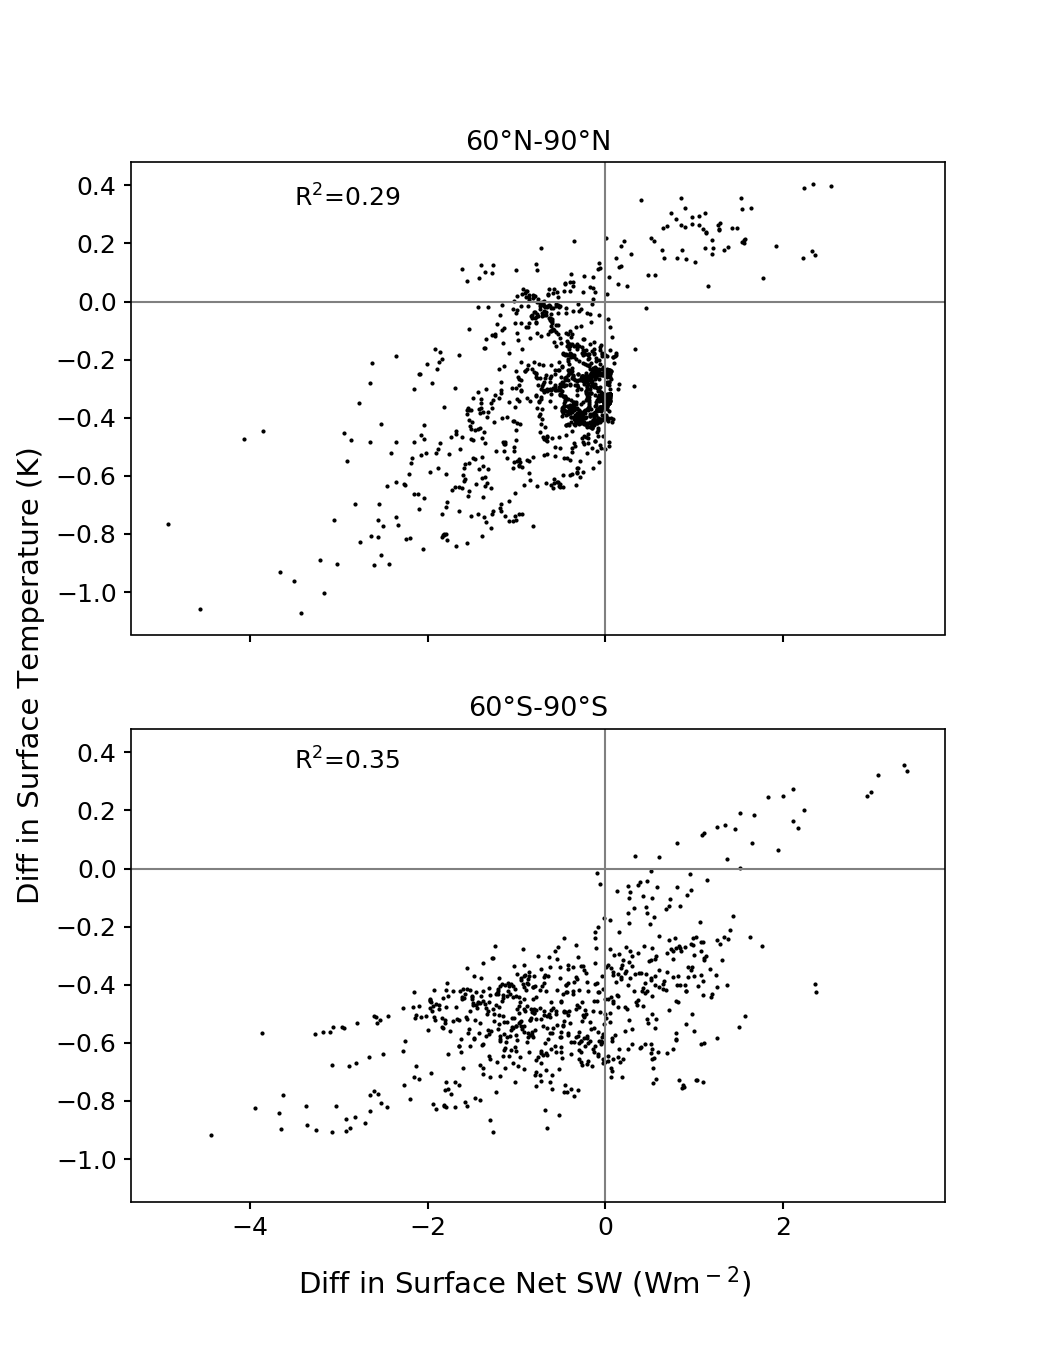
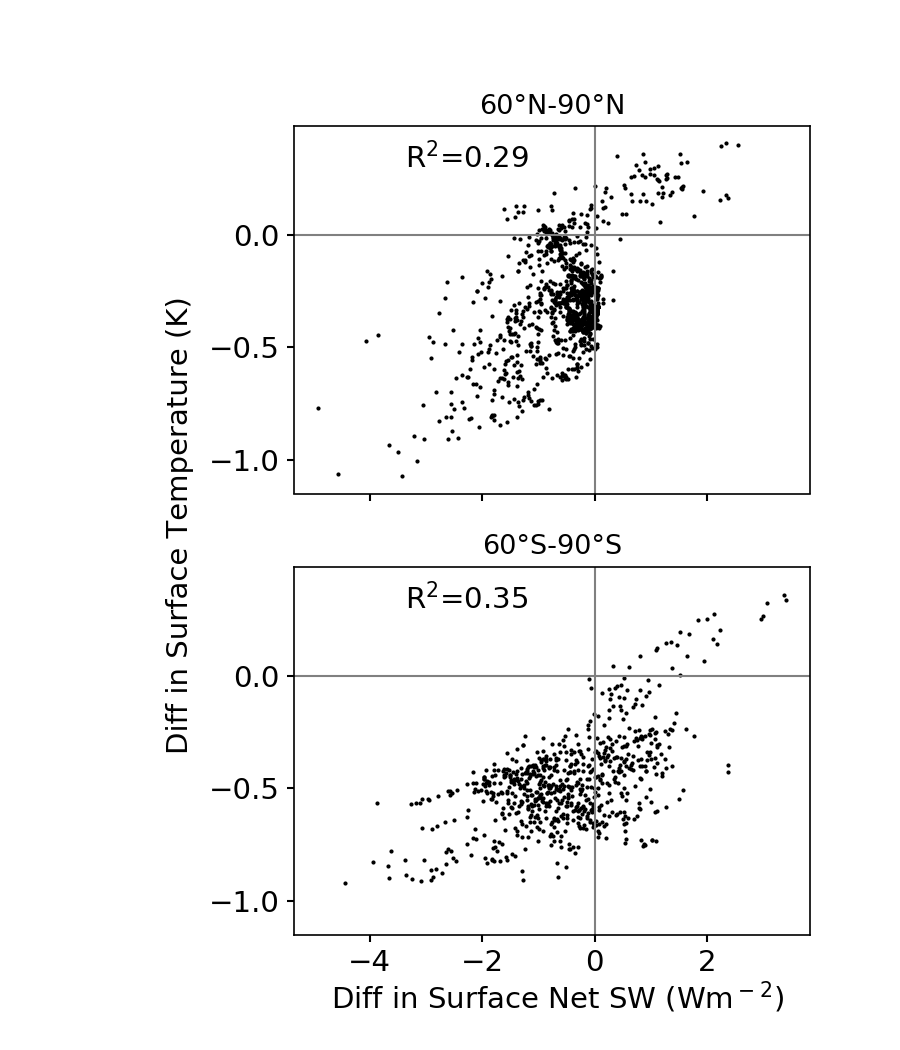
modify scatter subplot

diff --git a/d10_scatter_icefrac_TS2.py b/d10_scatter_icefrac_TS2.py
@@ -38,8 +38,8 @@ years=np.arange(2010,2020)
 months_all=["01","02","03","04","05","06","07","08","09","10","11","12"]
 
 #---
-varnm_1="TS"  #np.array(["FLNS","SOLIN","LHFLX","SHFLX"])
-varnm_2="FSNS"     #np.array(["FLNS","SOLIN","LHFLX","SHFLX"])
+varnm_1="ICEFRAC"  #np.array(["FLNS","SOLIN","LHFLX","SHFLX"])
+varnm_2="TS"     #np.array(["FLNS","SOLIN","LHFLX","SHFLX"])
 season="ANN"
 #figure_name="FSNT_vis_lat_lon_ANN"
 #units=r"W/m$^2$"
@@ -71,8 +71,8 @@ for iy in range(0,years.size):
    lat=file_ctl.variables["lat"]
    lon=file_ctl.variables["lon"]
    # read data and calculate mean/min/max
-   means_yby_ctl_cld[iy,:,:]=file_ctl.variables[varnm_1][0,:,:] #fraction to %
-   means_yby_exp_cld[iy,:,:]=file_exp.variables[varnm_1][0,:,:] #fraction to %
+   means_yby_ctl_cld[iy,:,:]=file_ctl.variables[varnm_1][0,:,:]*100. #fraction to %
+   means_yby_exp_cld[iy,:,:]=file_exp.variables[varnm_1][0,:,:]*100. #fraction to %
    means_yby_ctl_rad[iy,:,:]=file_ctl.variables[varnm_2][0,:,:] #-\
                              #file_ctl.variables[varnm_2[1]][0,:,:]
    means_yby_exp_rad[iy,:,:]=file_exp.variables[varnm_2][0,:,:] #-\
@@ -178,11 +178,11 @@ for ib in range(0,2):
 
 #fig.text(0.5,0.94,"Band 0.44-0.63",fontsize=14,va='center',ha='center')
 #fig.text(0.03,0.5,"Diff in Surface Temperature (K)",fontsize=14,va='center',ha='center',rotation='vertical')
-fig.text(0.2,0.5,"Diff in Surface Temperature (K)",fontsize=14,va='center',ha='center',rotation='vertical')
-fig.text(0.62,0.05,r"Diff in Surface Net SW (Wm$^-$$^2$)",fontsize=14,va='center',ha='center')
-fig.text(0.45,0.84,r"R$^2$="+str(round(coeff[0]**2,2)),fontsize=14)
-fig.text(0.45,0.42,r"R$^2$="+str(round(coeff[1]**2,2)),fontsize=14)
-plt.savefig("./figures/scat_ts_fsns_polar.png",dpi=150)
+fig.text(0.62,0.05,"Diff in Surface Temperature (K)",fontsize=14,va='center',ha='center')
+fig.text(0.24,0.5,r"Diff in Sea Ice Fraction (%)",fontsize=14,va='center',ha='center',rotation='vertical')
+fig.text(0.57,0.84,r"R$^2$="+str(round(coeff[0]**2,2)),fontsize=14)
+fig.text(0.57,0.42,r"R$^2$="+str(round(coeff[1]**2,2)),fontsize=14)
+plt.savefig("./figures/scat_icefrac_ts_polar.png",dpi=150)
 plt.show()
 
 '''
